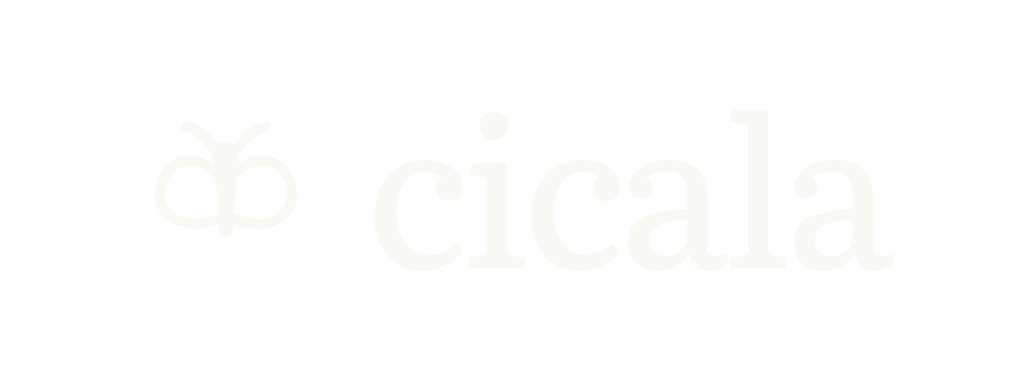
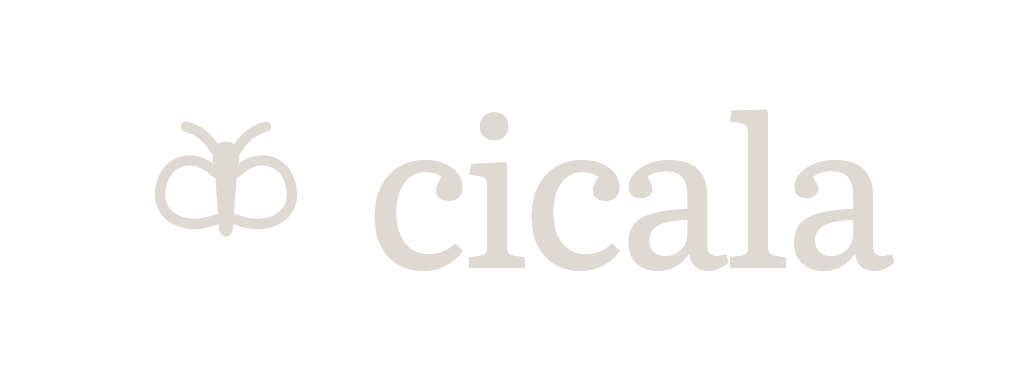
feat(site): rebuild the visual system one bit deep
The website now obeys the panel's constraint instead of describing it: two
tones, no radius, 1 px rules, and an ordered dither where a tint would go.
There is no accent colour, so state is inversion, weight, or density.

- Questions move to Zilla Slab 500. Slab strokes survive at one bit, which is
  why e-readers ship serif faces. The wordmark keeps Literata over a 50%
  dither rule, so the mark and the generated brand assets stay valid.
- The play surface becomes an enclosed panel with a 25% floor dither ramping
  from its bottom edge, and Category and Next share its rule in the 1:2
  proportion of the two buttons on the device.
- The deck name moves to the panel corner, off the centre axis. Centred above
  the question it was read first however small it was set.
- A saved question is a filled heart rather than a red one; a fault is heavier
  and underlined. Both are what one bit can express.

The dither is one pattern at four exact fractions of the grid, sized in
multiples of one e-paper pixel, so the firmware can draw the same geometry.

Changed region(s): [[0.3651, 0.291, 0.8822, 0.7275], [0.1521, 0.3201, 0.3042, 0.6402], [0.4563, 0.291, 0.5172, 0.3783]]

diff --git a/website/src/styles/global.css b/website/src/styles/global.css
@@ -11,6 +11,31 @@
   display: none !important;
 }
 
+/* ---------------------------------------------------------------- dither */
+
+/* One ordered pattern at four exact densities: 1/2, 1/4, 1/8, 1/16 of the
+   grid. `--dither-px` is one e-paper pixel, so the geometry drawn here is the
+   geometry the firmware can draw on the panel without approximation. */
+.dither {
+  background-image: radial-gradient(
+    var(--ink) calc(var(--dither-px) * 0.5),
+    transparent calc(var(--dither-px) * 0.58)
+  );
+  background-size: calc(var(--dither-px) * 2) calc(var(--dither-px) * 2);
+}
+
+.dither--50 {
+  background-image: repeating-conic-gradient(var(--ink) 0 25%, transparent 0 50%);
+}
+
+.dither--12 {
+  background-size: calc(var(--dither-px) * 2) calc(var(--dither-px) * 4);
+}
+
+.dither--06 {
+  background-size: calc(var(--dither-px) * 4) calc(var(--dither-px) * 4);
+}
+
 html {
   background: var(--paper);
   color: var(--ink);
@@ -40,10 +65,12 @@ body {
 }
 
 .wordmark {
+  position: relative;
   display: inline-flex;
   align-items: center;
   gap: 0.42rem;
-  font-family: var(--font-question);
+  /* The wordmark keeps Literata; only the questions moved to the slab. */
+  font-family: var(--font-brand);
   font-weight: 400;
   font-size: clamp(1.4rem, 4vw, 1.6rem);
   font-kerning: normal;
@@ -53,6 +80,18 @@ body {
   color: inherit;
   text-decoration: none;
   padding: 0.45rem 0.1rem 0.5rem 0;
+}
+
+/* The rule, not the letterforms, gives the wordmark its weight. */
+.wordmark::after {
+  content: "";
+  position: absolute;
+  left: 0;
+  right: 0.1rem;
+  bottom: 0.15rem;
+  height: 2px;
+  background-image: repeating-conic-gradient(var(--ink) 0 25%, transparent 0 50%);
+  background-size: calc(var(--dither-px) * 2) calc(var(--dither-px) * 2);
 }
 
 .brand-mark {
@@ -276,7 +315,7 @@ a {
   font-family: var(--font-ui);
   font-size: 0.875rem;
   color: var(--ink);
-  background: transparent;
+  background: var(--panel);
   border: 1px solid var(--ink);
   border-radius: var(--radius-pill);
   padding: 0.85rem 1.6rem;
@@ -347,12 +386,13 @@ a {
   fill: none;
 }
 
+/* One bit has no second colour: saved is a filled heart, not a red one. */
 .iconbtn[aria-pressed="true"] {
-  color: var(--accent);
+  color: var(--ink);
 }
 
 .iconbtn[aria-pressed="true"] .heart-shape {
-  fill: var(--accent);
+  fill: var(--ink);
 }
 
 /* ---------------------------------------------------------------- play */
@@ -378,9 +418,9 @@ a {
 
 .question {
   font-family: var(--font-question);
-  font-weight: 400;
+  font-weight: 500;
   font-size: clamp(1.6rem, 6vw, 2.6rem);
-  line-height: 1.45;
+  line-height: 1.25;
   max-width: var(--measure);
   color: var(--ink);
   text-wrap: balance;
@@ -409,15 +449,7 @@ a {
   color: var(--ink);
 }
 .meta .iconbtn[aria-pressed="true"] {
-  color: var(--accent);
-}
-
-.play-controls {
-  display: flex;
-  flex-direction: column;
-  align-items: center;
-  gap: 1.25rem;
-  padding-bottom: 0.5rem;
+  color: var(--ink);
 }
 
 /* --------------------------------------------------------------- browse */
@@ -452,7 +484,7 @@ textarea {
   font-family: var(--font-ui);
   font-size: 0.875rem;
   color: var(--ink);
-  background: var(--paper-raised);
+  background: var(--panel);
   border: 1px solid var(--line);
   border-radius: var(--radius-card);
   padding: 0.7rem 0.85rem;
@@ -488,7 +520,7 @@ select {
 }
 
 .row:hover {
-  background: var(--paper-raised);
+  background: var(--panel);
 }
 
 .row-main {
@@ -534,7 +566,7 @@ select {
 }
 
 .empty-state a {
-  color: var(--accent);
+  color: var(--ink);
 }
 
 /* ---------------------------------------------------------------- forms */
@@ -576,7 +608,7 @@ select {
 input[type="checkbox"] {
   width: 1.05rem;
   height: 1.05rem;
-  accent-color: var(--accent);
+  accent-color: var(--ink);
   cursor: pointer;
 }
 
@@ -584,9 +616,13 @@ input[type="checkbox"] {
   font-variant-numeric: tabular-nums;
 }
 
+/* One bit has no warning colour: a fault is heavier and underlined. */
 .counter.is-bad,
 .rule-hint.is-bad {
-  color: var(--accent);
+  color: var(--ink);
+  font-weight: 600;
+  text-decoration: underline;
+  text-underline-offset: 3px;
 }
 
 /* --------------------------------------------------------------- tables */
@@ -627,7 +663,7 @@ input[type="checkbox"] {
   position: absolute;
   left: -9999px;
   top: 0.5rem;
-  background: var(--paper-raised);
+  background: var(--panel);
   border: 1px solid var(--ink);
   border-radius: var(--radius-pill);
   padding: 0.6rem 1rem;
@@ -641,7 +677,7 @@ input[type="checkbox"] {
 /* ------------------------------------------------------------ focus/a11y */
 
 :focus-visible {
-  outline: 2px solid var(--accent);
+  outline: 2px solid var(--ink);
   outline-offset: 2px;
   border-radius: 4px;
 }

diff --git a/website/src/styles/tokens.css b/website/src/styles/tokens.css
@@ -1,15 +1,26 @@
-/* Shared colour, type, radius, and measure values. */
+/* Shared colour, type, dither, and measure values.
+
+   The panel is one bit deep, so the website is too: two tones and an ordered
+   dither instead of tints. Densities are exact fractions of the 1-bit grid, so
+   the same pattern can be drawn on the e-paper without approximation. */
 :root {
-  --paper: #faf8f2; /* warm page background */
-  --paper-raised: #fffffe; /* raised surfaces */
-  --ink: #1f1f1d; /* primary text */
-  --ink-soft: #5f5e5a; /* secondary text */
-  --ink-faint: #b0ad9f; /* hints and disabled text */
-  --line: #e3e0d6; /* 1 px borders */
-  --accent: #c24a22; /* hearts and active states */
-  --font-question: "Literata", Georgia, serif;
+  --paper: #dedad2; /* page background */
+  --panel: #ebeae4; /* the question surface, the e-paper analogue */
+  --ink: #100f0e; /* primary text and every rule */
+  --ink-soft: #4c4a45; /* secondary text */
+  --ink-faint: #8f8c85; /* separators and hints */
+  --line: #100f0e; /* 1 px borders; the panel has no lighter rule */
+
+  --font-question: "Zilla Slab", Georgia, serif;
+  --font-brand: "Literata", Georgia, serif;
   --font-ui: "IBM Plex Mono", ui-monospace, monospace;
-  --radius-pill: 999px;
-  --radius-card: 10px;
+
+  /* One panel pixel. Everything in the dither system is a multiple of it. */
+  --dither-px: 2px;
+  /* Floor ramp height, as a share of the surface it sits on. */
+  --floor-end: 30%;
+
+  --radius-pill: 0;
+  --radius-card: 0;
   --measure: 22ch; /* question line length */
 }

diff --git a/website/e2e/play.spec.ts b/website/e2e/play.spec.ts
@@ -27,6 +27,8 @@ test.describe("play", () => {
     await wordmark.focus();
     await expect(wordmark).toBeFocused();
 
+    await expect(page.locator("#q-text")).toHaveCSS("font-family", /Zilla Slab/);
+
     const iconHrefs = await page
       .locator('link[rel="icon"]')
       .evaluateAll((links) => links.map((link) => (link as HTMLLinkElement).href));
@@ -65,12 +67,14 @@ test.describe("play", () => {
         .map((url) => url.href);
       return {
         literata: document.fonts.check("16px Literata"),
+        zilla: document.fonts.check('16px "Zilla Slab"'),
         plex: document.fonts.check('16px "IBM Plex Mono"'),
         externalResources,
         layoutShift: (window as Window & { identityLayoutShift?: number }).identityLayoutShift ?? 0,
       };
     });
     expect(fontState.literata).toBe(true);
+    expect(fontState.zilla).toBe(true);
     expect(fontState.plex).toBe(true);
     expect(fontState.externalResources).toEqual([]);
     expect(fontState.layoutShift).toBeLessThan(0.01);

diff --git a/docs/brand.md b/docs/brand.md
@@ -12,12 +12,18 @@ mark alone for square and very small formats. Use the horizontal lockup when the
 name needs to be learned.
 
 The wordmark is Literata at normal weight with optical kerning and restrained
-negative tracking. The website keeps it as live, selectable text. Use `Cicala`
-normally in prose.
+negative tracking, over a 50% dither rule the width of the lockup. The rule
+carries the weight so the letterforms do not have to. The website keeps the
+wordmark as live, selectable text. Use `Cicala` normally in prose.
 
-Literata is also the question typeface. IBM Plex Mono is reserved for
-navigation, controls, labels, metadata, and technical information. Both fonts
-are self-hosted by the website; do not add an external font request.
+Zilla Slab at weight 500 is the question typeface: slab strokes survive at one
+bit, which is why e-readers ship serif faces. IBM Plex Mono is reserved for
+navigation, controls, labels, metadata, and technical information. All three
+fonts are self-hosted by the website; do not add an external font request.
+
+The e-paper renders none of them. The panel draws the CFB bitmap fonts
+(10 × 16, 15 × 24, 20 × 32) with a one-pixel overdraw for weight, so the device
+mirrors the website's tone and not its typeface.
 
 Keep clear space around the mark or lockup at least equal to the mark's body
 width. At small sizes, use the mark rather than enlarging the lockup enough to
@@ -25,19 +31,38 @@ compete with a question.
 
 ## Colour
 
-| Token            | Value     | Use                                       |
-| ---------------- | --------- | ----------------------------------------- |
-| `--paper`        | `#faf8f2` | page and avatar background                |
-| `--paper-raised` | `#fffffe` | raised surfaces                           |
-| `--ink`          | `#1f1f1d` | wordmark and primary text                 |
-| `--ink-soft`     | `#5f5e5a` | secondary text                            |
-| `--ink-faint`    | `#b0ad9f` | hints and disabled text                   |
-| `--line`         | `#e3e0d6` | restrained borders                        |
-| `--accent`       | `#c24a22` | interaction, selection, hearts, and focus |
+The panel is one bit deep, so the website is too. There is no accent colour:
+state is carried by inversion, by weight, or by the dither.
 
-The wordmark is monochrome charcoal on warm paper. The reversed treatment uses
-warm paper on charcoal. Rust is a functional interface accent and is not part
-of the wordmark.
+| Token         | Value     | Use                                    |
+| ------------- | --------- | -------------------------------------- |
+| `--paper`     | `#dedad2` | page and avatar background             |
+| `--panel`     | `#ebeae4` | the question surface, and raised keys  |
+| `--ink`       | `#100f0e` | wordmark, primary text, and every rule |
+| `--ink-soft`  | `#4c4a45` | secondary text                         |
+| `--ink-faint` | `#8f8c85` | separators, hints, and disabled text   |
+| `--line`      | `#100f0e` | 1 px borders                           |
+
+Solid ink is reserved for type and for a key under a finger. A saved question
+is a filled heart, not a coloured one; a fault is heavier and underlined, not
+red.
+
+## Dither
+
+One ordered pattern at four exact fractions of the 1-bit grid — 1/2, 1/4, 1/8,
+1/16 — sized in multiples of `--dither-px`, one e-paper pixel. The website
+shapes it with a gradient mask; the panel, which cannot fade a pattern, steps
+down through the same densities instead.
+
+| Use           | Density | Where                                               |
+| ------------- | ------- | --------------------------------------------------- |
+| Wordmark rule | 50%     | under the lockup, 2 px                              |
+| Floor         | 25%     | rising from the bottom edge of the question surface |
+
+The floor ends at 30% of the surface on the website and at
+`CICALA_PANEL_FLOOR_PCT` — 12%, 15 of 122 rows — on the device. Do not fill a
+surface uniformly: the panel has roughly 10:1 contrast to give and the question
+needs it.
 
 ## Assets
 
@@ -71,6 +96,7 @@ optional small blind emboss on the underside or a concealed lower edge.
 ## Prohibited treatments
 
 Do not add eyes, legs, realistic veining, sound-wave ornaments, a speech bubble,
-or a second symbol to the cicada. Do not put the wordmark in rust, add gradients
-or glow, introduce another brand colour, distort the letterforms, or make the
-mark larger than the current question. The questions remain visually dominant.
+or a second symbol to the cicada. Do not introduce a brand colour, add
+gradients or glow, round a corner the device could not round, distort the
+letterforms, or make the mark larger than the current question. Do not lay the
+dither under a question at any density. The questions remain visually dominant.

diff --git a/docs/design.md b/docs/design.md
@@ -129,16 +129,20 @@ Navigation is play / browse / contribute / device.
 Favorites remain on the website because a browser can show confirmation and
 ownership without changing the physical object's interaction.
 
-The visual language is warm paper, Literata questions and wordmark, IBM Plex
-Mono controls, and one functional rust accent. Motion is limited to the 120 ms
-question fade and the category change. The [brand guide](brand.md) defines the
-identity without changing this interaction hierarchy.
+The visual language obeys the panel's constraint: two tones, no radius, 1 px
+rules, and an ordered dither where a tint would otherwise go. Questions are
+Zilla Slab, the wordmark stays Literata over a dither rule, and IBM Plex Mono
+carries controls and metadata. There is no accent colour — state is inversion,
+weight, or density. Motion is limited to the 120 ms question fade and the
+category change. The [brand guide](brand.md) defines the identity without
+changing this interaction hierarchy.
 
 ## Deferred work
 
 - Anonymous submissions through a small backend.
 - Anonymous “sparked a good conversation” voting; see [votes.md](votes.md).
-- A token-swap dark theme.
+- A token-swap dark theme. Inversion already exists as a state, so the tokens
+  are close to swappable.
 - A depth-boundary physical study. A slider is reconsidered only if people use
   it publicly and unprompted.
 - Curating the deck from the setup portal: browsing the questions on a phone,
